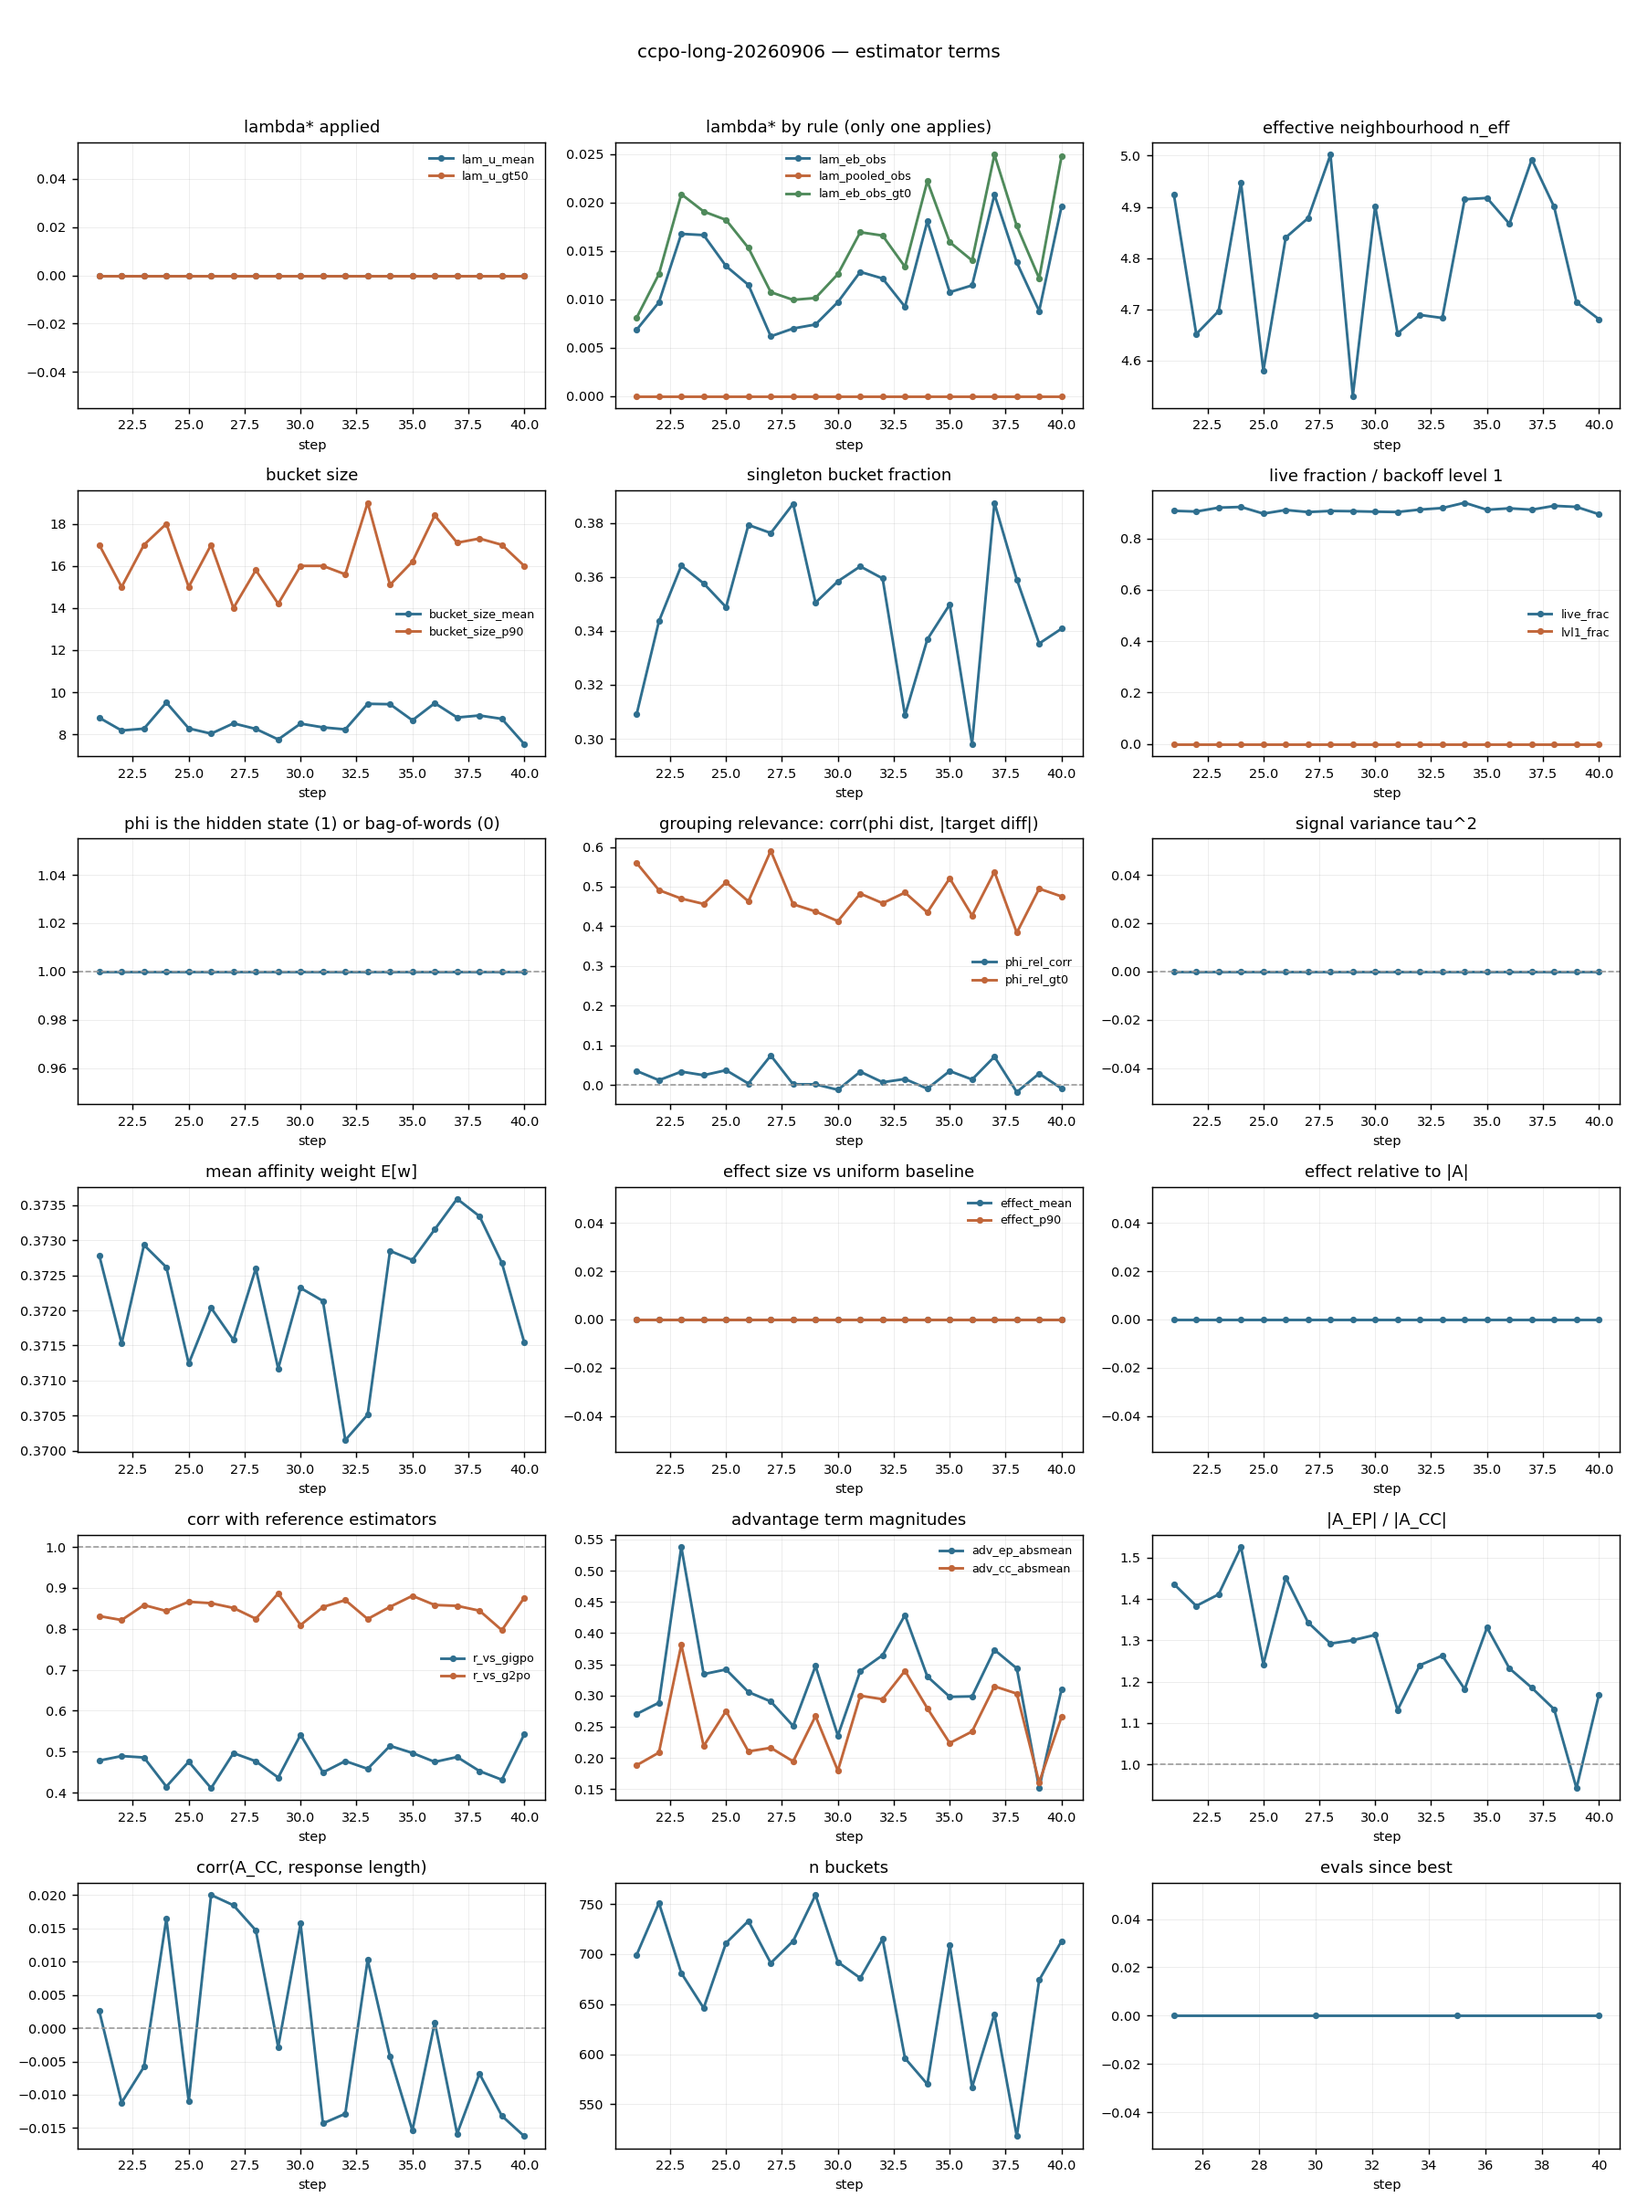
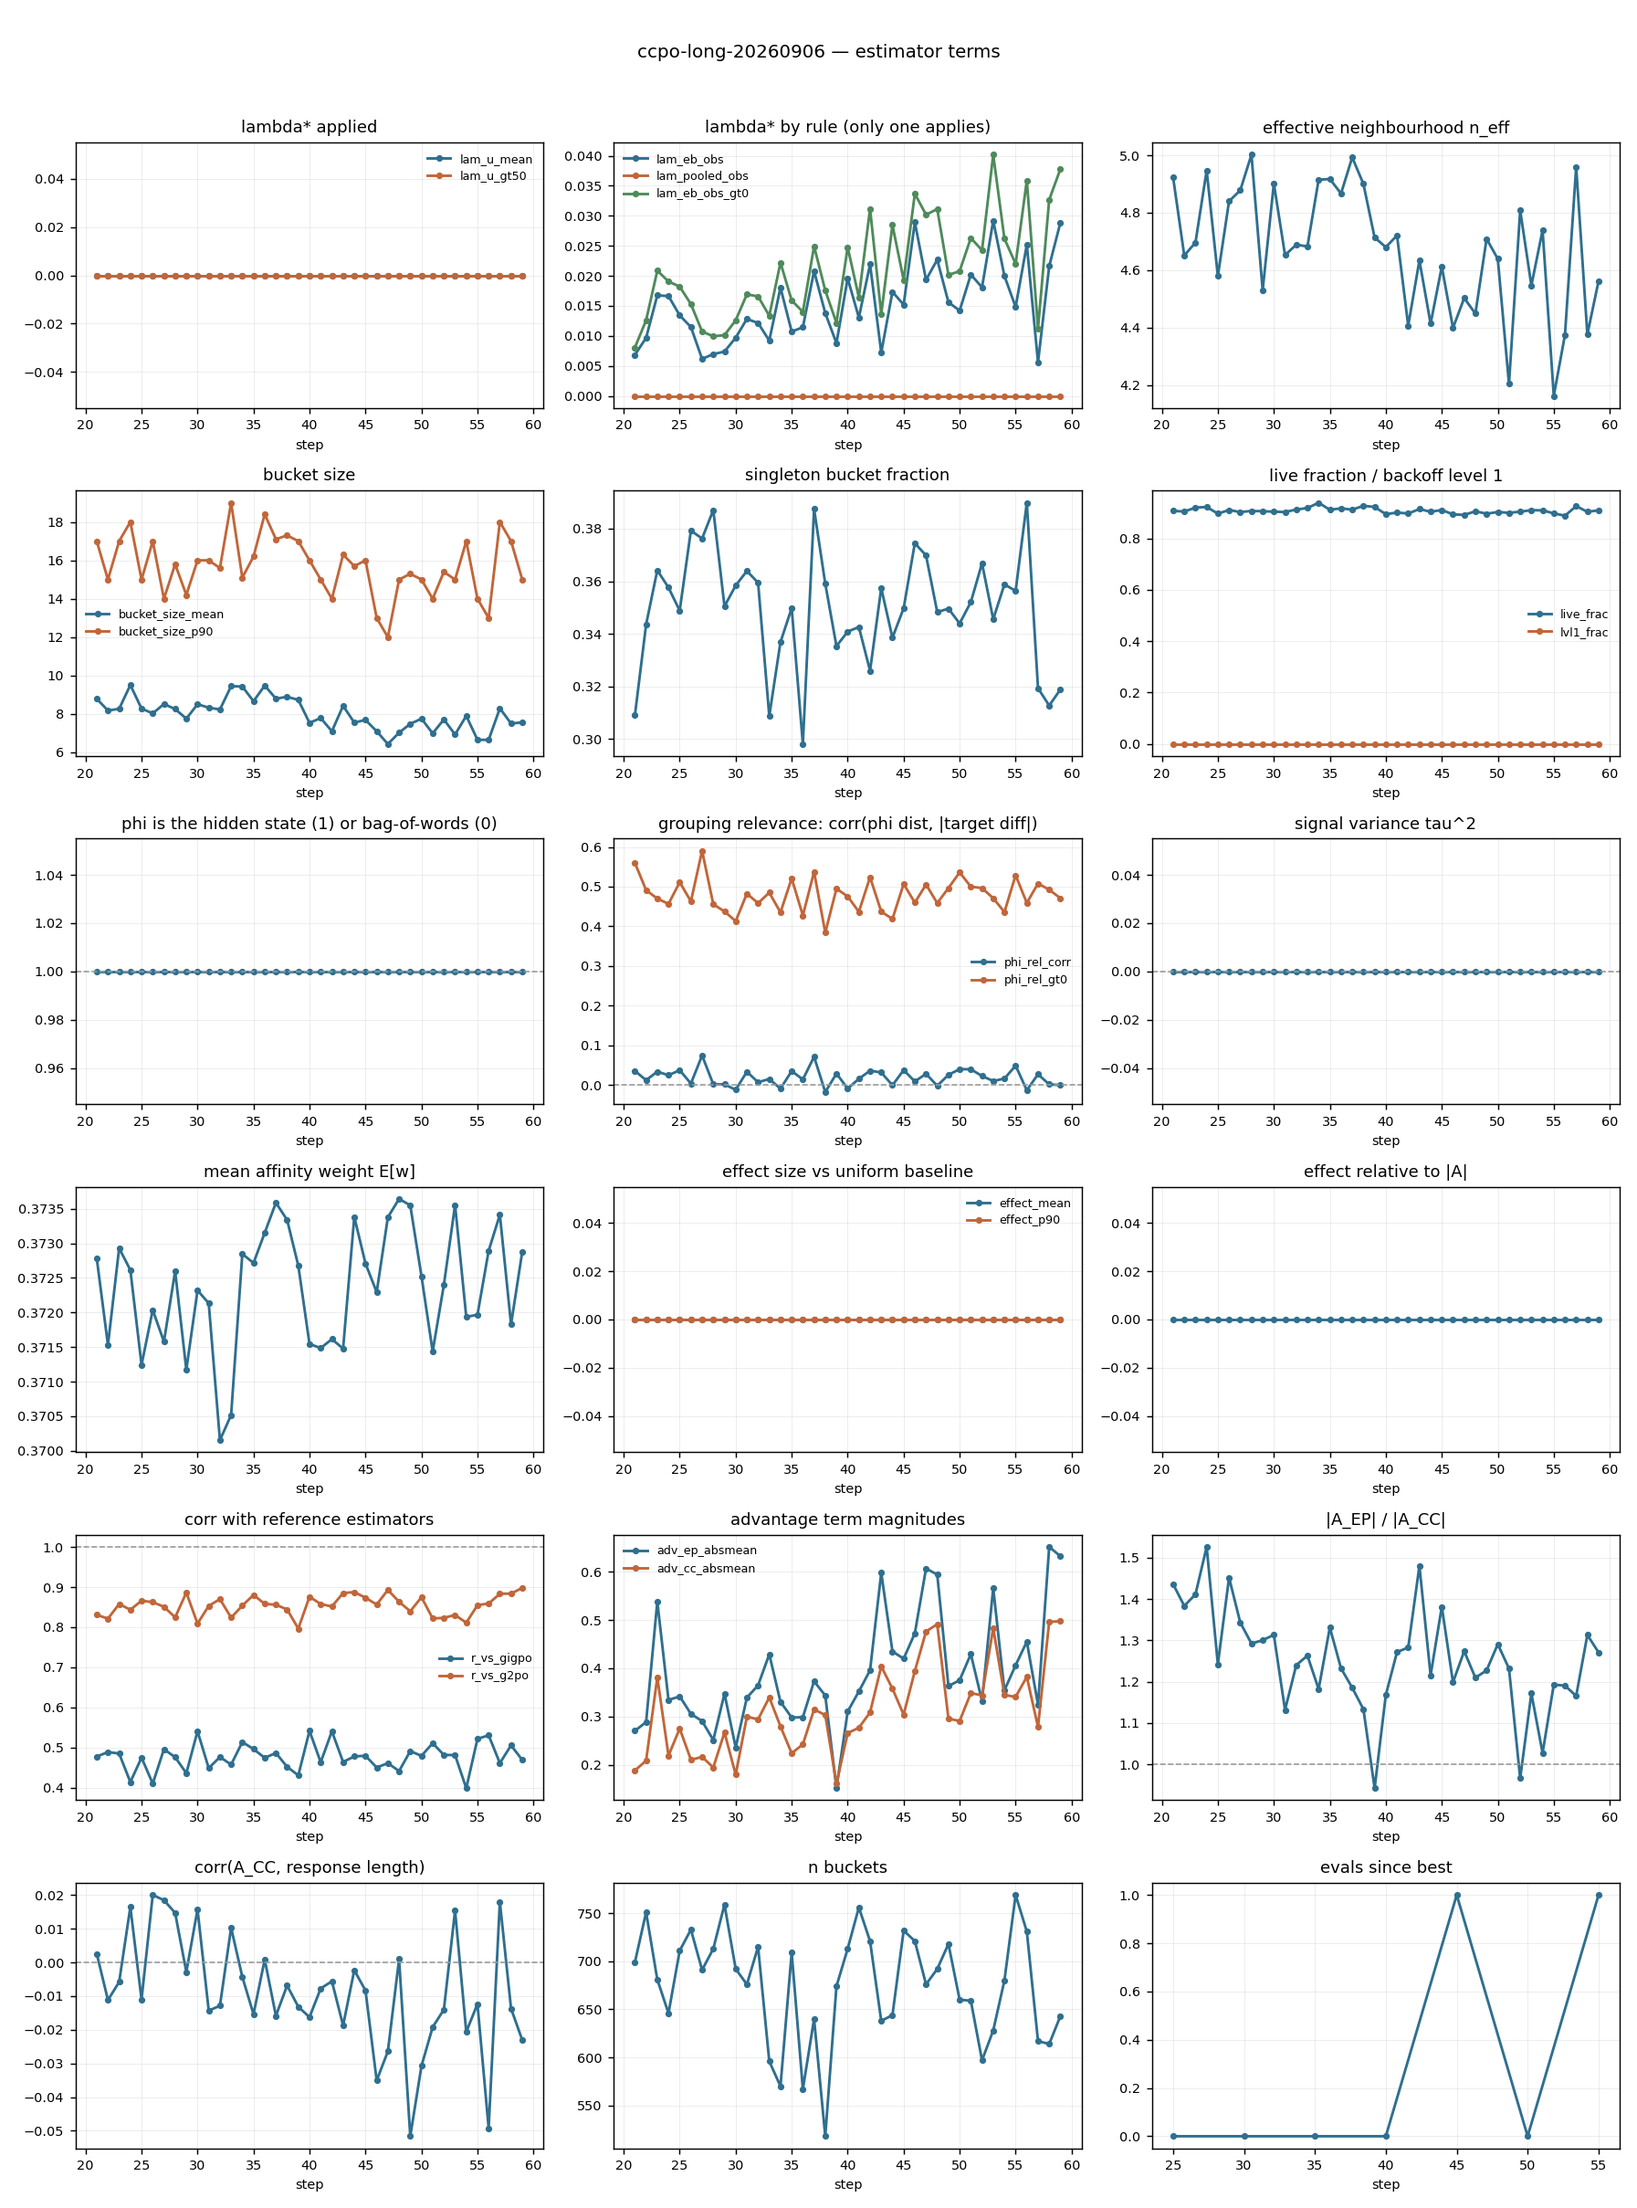
H-I: step-60 checkpoint -- marker cleared, but record the plateau honestly
Held-out 0.4141 at step 60 against a ~0.35 marker set in advance, so by the
pre-registered criterion the run continues. Recording the case against as well:
three evaluations at .4219/.4141/.4141 is 15 steps without improvement, and partial
credit declined across the same window (2.371 -> 2.152 -> 2.038), which carries more
weight than flat success because partial is the less noisy indicator.

Continuing, with the reasoning on record: the series flattened at step 30 and fell
at step 45 and resumed both times, early stopping fires at step 90 on its own so
exposure is ~3.5h not 4.5h, and step50-best is preserved either way.

Also names in advance what would reverse the decision -- step 65 or 70 below 0.39
with partial declining a fourth time is a decline rather than a plateau, and should
be killed immediately instead of waiting for the step-90 early stop.

Claude-Session: https://claude.ai/code/session_01TnVw4qcXikRNMjxhmmuJXY

diff --git a/experiments/hypothesis.md b/experiments/hypothesis.md
@@ -97,10 +97,10 @@ it triggers on *plateau*, not on being behind schedule, so this is a manual call
 
 **Tracking — `ccpo-long-20260906`, held-out (128 fixed episodes):**
 
-| step | 5 | 10 | 15 | 20 | 25 | 30 | 35 | 40 |
-|---|---|---|---|---|---|---|---|---|
-| success | .0625 | .0781 | .1250 | .1719 | .2422 | .2500 | .3047 | **.3438** |
-| partial | .226 | .386 | .454 | .803 | 1.043 | 1.278 | 1.475 | **1.821** |
+| step | 5 | 10 | 15 | 20 | 25 | 30 | 35 | 40 | 45 | 50 | 55 | 60 |
+|---|---|---|---|---|---|---|---|---|---|---|---|---|
+| success | .0625 | .0781 | .1250 | .1719 | .2422 | .2500 | .3047 | .3438 | .2891 | **.4219** | .4141 | .4141 |
+| partial | .226 | .386 | .454 | .803 | 1.043 | 1.278 | 1.475 | 1.821 | 1.391 | **2.371** | 2.152 | 2.038 |
 
 (Steps 5–20 are `ccpo-mem`; 25+ are the warm-started continuation. Same config, same
 constant LR, so the series is one curve.)
@@ -120,6 +120,33 @@ success curves saturate, and the remaining tasks are the compositional ones that
 convert last. But the honest statement is that the band's *upper* half is the live
 region, not its middle. I am not revising the prediction; a band you move once it
 starts resolving is not a prediction.
+
+**Step-60 checkpoint: the pre-registered marker is cleared, but a plateau has
+appeared.** The marker was ~0.35 by step 60; actual is **0.4141**. By the criterion
+written down in advance, the run continues.
+
+Against that: three consecutive evaluations at 0.4219 / 0.4141 / 0.4141 — 15 steps
+with no improvement — and partial credit drifting *down* across the same window
+(2.371 → 2.152 → 2.038). Partial credit is the less noisy indicator, so a decline
+there is worth more than the flatness in success.
+
+**Decision: continue to 100.** Reasoning, recorded now so it can be judged later:
+
+* The marker was set in advance precisely so a plateau would not be re-litigated
+  mid-run. 0.414 clears 0.35 comfortably.
+* This series has flattened twice before and resumed both times — step 30 was flat
+  (+.008) then jumped to .3047; step 45 *fell* to .2891 then jumped to .4219. A
+  third flat window after two false alarms is weak evidence.
+* Early stopping is armed and handles the true-plateau case without my judgement:
+  patience 8 with two stale evaluations banked means it fires at **step 90**, so
+  the exposure is 30 steps (~3.5 h), not 40.
+* `step50-best` is preserved regardless, so a plateau costs compute, not the result.
+
+**What would change the decision:** step 65 or 70 coming in *below* 0.39 — that
+would be a decline rather than a plateau, and partial credit falling for a fourth
+consecutive evaluation would corroborate it. In that case kill immediately rather
+than waiting for step 90; early stopping fires on plateau, and a decline is worse
+than a plateau.
 
 **One caution against reading the increments too finely:** at p≈0.3 with n=128 the
 binomial SE is 0.040, so any single step-to-step move under ~0.08 is inside noise.
